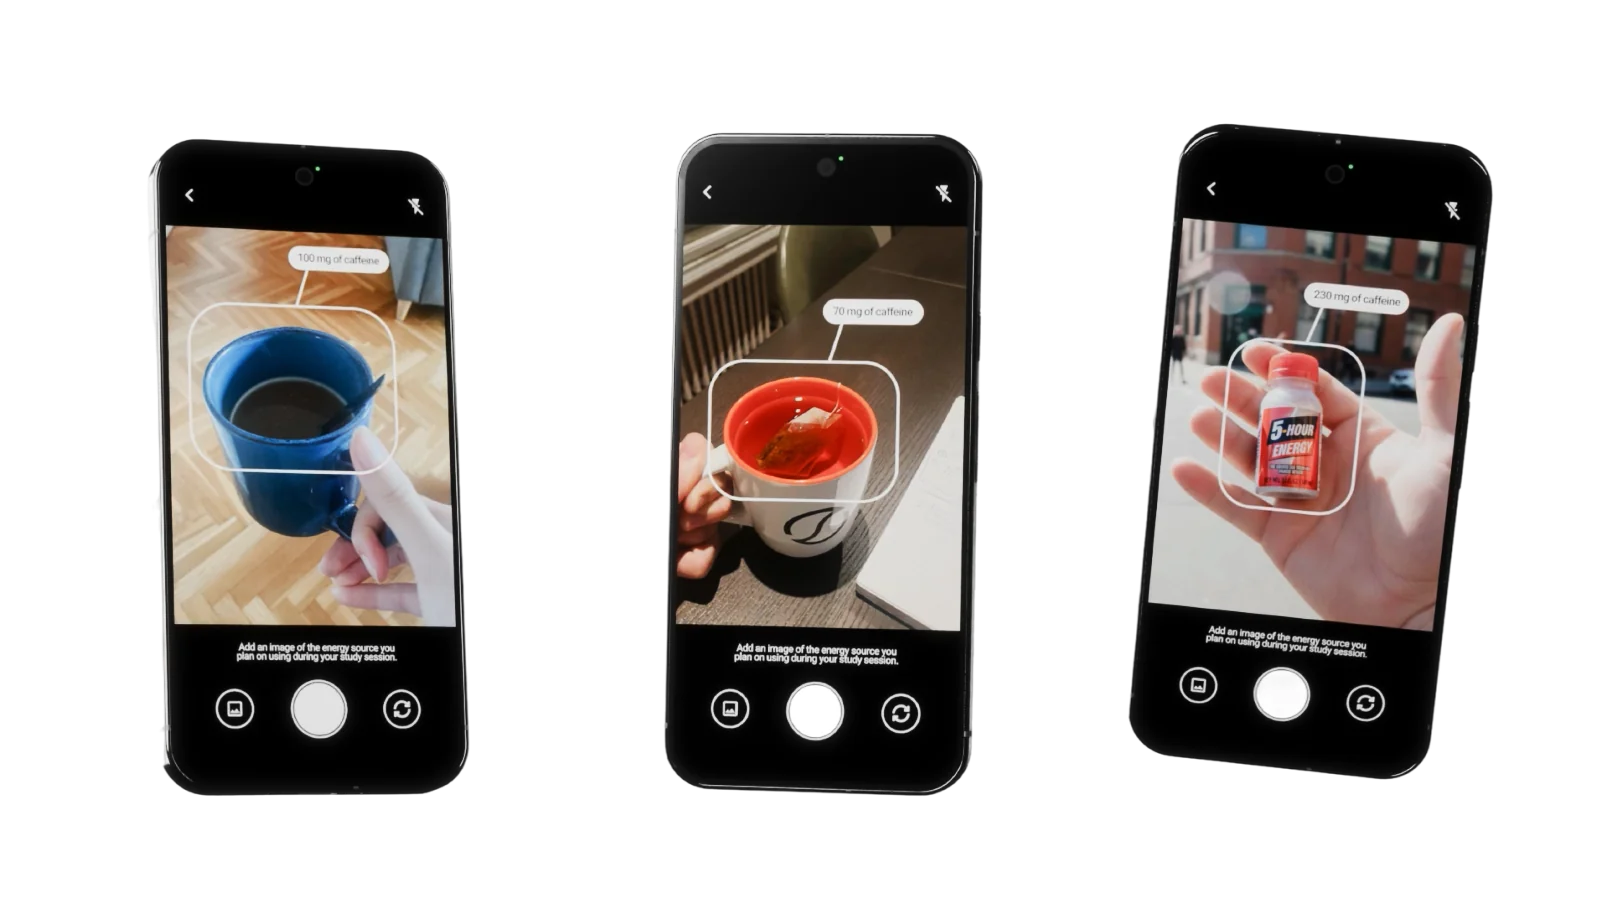
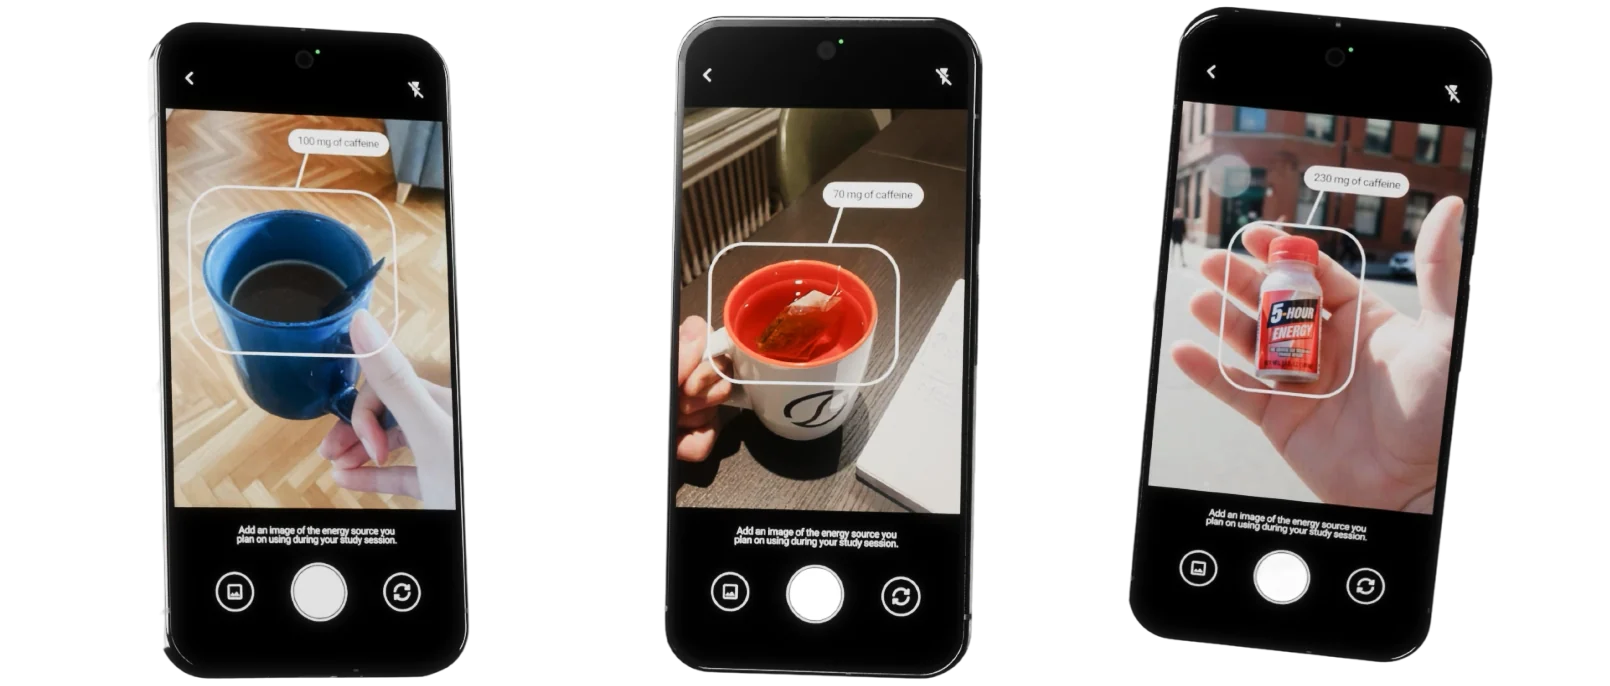
Even out Surf the Spike's vertical rhythm
Measured off the built page, the gaps between one block's picture and the
next block's caption were 124, 152 and 71 units, and the closing caption sat
straight on top of the nav with nothing between them. Two numbers do all of it
now — --sts-gap between blocks, --sts-lead from a caption to the picture under
it — and the nav gets the same air under the last caption that the first block
gets under the title. The one deliberate exception stays: the caption below
the placements still hugs them, because its hooks reach back up into the
photographs.

The space after the video case was mostly the scan artwork's own doing. The
three phones are drawn inside a 1610x906 field, which put 123 units of empty
black above them and 109 below; over a black page that is not margin, it is a
hole, and it doubled that gap and left the caption stranded in the middle of
it. The file is trimmed to the phones and the caption moves onto the line
above them like every other caption on the page — right-aligned, since its
arrow has to leave the words travelling left to land on the third phone.

Also: on a phone the caption span could not shrink, so the longest of them ran
off the right edge instead of breaking into two lines.

Claude-Session: https://claude.ai/code/session_01F42AuCjnt6BFxBRX1KPJGT

diff --git a/style.css b/style.css
@@ -1811,10 +1811,20 @@ body.narrow #page.page-and .back-in { gap: calc(16px * var(--inv)); }
    Each caption's arrow is placed by its own numbers rather than a shared rule.
    They are not decoration in a row of text: each one leaves the words at a
    particular point and lands on a particular part of the picture under it, and
-   in the layout that means each sits at its own height against its own line. */
+   in the layout that means each sits at its own height against its own line.
+
+   The vertical rhythm is regularised, which the layout is not: measured off it
+   the gaps between one block's picture and the next block's caption came out
+   124, 152 and 71, and the page read as unevenly distributed rather than as
+   deliberately varied. Two numbers now do all of it — `--sts-gap` between
+   blocks and `--sts-lead` from a caption to the picture it introduces — with
+   one exception, the caption under the placements, which hugs them because its
+   hooks reach back UP into the photographs. */
 .proj-sts {
   --sts-ink: #f2f2ea;
   --sts-copy: 1.411vw;
+  --sts-gap: 5.2vw;          /* between blocks: last picture to next caption */
+  --sts-lead: 1.406vw;       /* a caption to the picture directly under it */
   font-family: 'CossetteTexte', "Helvetica Neue", Helvetica, Arial, sans-serif;
   max-width: none;
   padding: 0 8.073vw 6.3vw;
@@ -1871,40 +1881,41 @@ body.narrow #page.page-and .back-in { gap: calc(16px * var(--inv)); }
 
 .proj-sts .proj-block { margin: 0; }
 .proj-sts .sts-b-case { margin-top: 4.58vw; }
+.proj-sts .sts-b-scan,
+.proj-sts .sts-b-ui,
+.proj-sts .sts-b-out { margin-top: var(--sts-gap); }
+/* the closing nav is the page's last line and needs the same air the first
+   block gets under the title — without this it sits straight under the
+   placements' caption, reading as part of it */
+.proj-sts > .proj-nav:last-child { margin-top: 4.58vw; }
 
-.sts-cap-case { margin-bottom: 1.094vw; }               /* caption 99 -> video 152 */
+.sts-cap-case { margin-bottom: var(--sts-lead); }
 .sts-cap-case svg { width: 3.854vw; height: 1.615vw; margin-top: 0.208vw; }
 
 .sts-yt { position: relative; aspect-ratio: 16 / 9; }
 .sts-yt iframe { position: absolute; inset: 0; width: 100%; height: 100%; border: 0; display: block; }
 
-/* video bottom 1056 -> the scan artwork's own box top 1151 */
-.proj-sts .sts-b-scan { margin-top: 4.948vw; }
-.sts-scan { position: relative; }
+/* The artwork is drawn inside a 1610x906 field with the three phones sitting
+   in the middle of it, which put 123 units of empty black above them and 109
+   below. Over a black page that is not margin, it is a hole: it doubled the
+   gap after the video case and left the caption stranded in the middle of it.
+   So the file is trimmed to the phones (plus 6 units of air) and the caption
+   comes out of the artwork and back onto the line above it, where every other
+   caption on this page sits. Right-aligned, because the arrow has to leave the
+   words travelling left to land on the third phone. */
 .sts-scan img { display: block; width: 100%; height: auto; }
-/* inside the artwork's own black margin, 29 units down and 47 in from the
-   right, which is where the layout starts the line so its arrow lands on the
-   third phone */
-.sts-cap-scan {
-  position: absolute;
-  top: 1.51vw;
-  right: 2.448vw;
-}
-.sts-cap-scan svg { width: 8.75vw; height: 4.583vw; margin-top: 0.729vw; }
+.sts-cap-scan { justify-content: flex-end; margin-bottom: var(--sts-lead); }
+.sts-cap-scan svg { width: 8.75vw; height: 4.583vw; }
 
-/* the scan artwork's box bottom 2057 -> this caption's line at 2100 */
-.proj-sts .sts-b-ui { margin-top: 2.24vw; }
-.sts-cap-ui { margin-bottom: 1.667vw; }                 /* caption 2100 -> clip 2164 */
+.sts-cap-ui { margin-bottom: var(--sts-lead); }
 .sts-cap-ui svg { width: 6.667vw; height: 3.021vw; margin-top: 0.313vw; }
 
 /* the clip is shown whole, at the ratio the UI was recorded in */
 .sts-clip video { width: 100%; height: auto; display: block; }
 
-/* clip bottom 3070 -> the shops caption at 3141 */
-.proj-sts .sts-b-out { margin-top: 3.698vw; }
 /* both grid captions are centred on the page, with an arrow off each end */
 .sts-cap-shops, .sts-cap-vend { justify-content: center; }
-.sts-cap-shops { margin-bottom: 1.406vw; }              /* caption 3141 -> grid 3198 */
+.sts-cap-shops { margin-bottom: var(--sts-lead); }
 .sts-cap-shops svg:first-child { width: 5.833vw; height: 2.396vw; margin-top: 0.781vw; }
 .sts-cap-shops svg:last-child { width: 6.563vw; height: 2.5vw; margin-top: 0.833vw; }
 
@@ -1931,22 +1942,26 @@ body.narrow #page.page-and .back-in { gap: calc(16px * var(--inv)); }
   .proj-sts .proj-nav-hands .hand { width: 48px; }
   .proj-sts .proj-title-art { width: min(69.8vw, 602px); }   /* 72vw scaled the same way */
   .sts-idea { max-width: 100%; }
+  .proj-sts { --sts-gap: 34px; --sts-lead: 12px; }
   .proj-sts .sts-b-case { margin-top: 30px; }
-  .proj-sts .sts-b-scan, .proj-sts .sts-b-ui, .proj-sts .sts-b-out { margin-top: 30px; }
+  .proj-sts > .proj-nav:last-child { margin-top: 34px; }
 
   /* Every caption is a line of type and a doodle at the size the phone layout
      sets them, and the long ones wrap — so they stop being a nowrap row with
      the arrow pinned to one end. */
+  /* the line has to be able to break here — at 390 the longest of these
+     captions is three lines of type, and a span that cannot shrink runs
+     straight off the right edge instead */
   .sts-cap { flex-wrap: wrap; gap: 10px; align-items: center; }
+  .sts-cap span { flex: 0 1 auto; min-width: 0; }
   .sts-cap svg { margin-top: 0 !important; }
-  .sts-cap-case { margin-bottom: 12px; }
+  .sts-cap-case { margin-bottom: var(--sts-lead); }
   .sts-cap-case svg { width: 54px; height: 23px; }
-  .sts-cap-ui { margin-bottom: 12px; }
+  .sts-cap-ui { margin-bottom: var(--sts-lead); }
   .sts-cap-ui svg { width: 74px; height: 34px; }
-  /* the scan caption comes out of the artwork's margin and back into the flow:
-     there is no room beside three phones on a 390-wide screen for a line of
-     type to sit over them */
-  .sts-cap-scan { position: static; margin-bottom: 12px; }
+  /* left with the rest of them: right-aligning one line of a stacked column
+     reads as a mistake at this width */
+  .sts-cap-scan { justify-content: flex-start; }
   .sts-cap-scan svg { width: 84px; height: 44px; }
   /* The two grid captions point at pictures on either side of them, and on a
      phone there is no either side — the 2x2 is one column. So the line takes
@@ -1958,7 +1973,7 @@ body.narrow #page.page-and .back-in { gap: calc(16px * var(--inv)); }
   .sts-cap-shops span, .sts-cap-vend span { flex-basis: 100%; }
   .sts-cap-shops span { order: -1; }
   .sts-cap-vend span { order: 1; }
-  .sts-cap-shops { margin-bottom: 12px; }
+  .sts-cap-shops { margin-bottom: var(--sts-lead); }
   .sts-cap-shops svg:first-child { width: 64px; height: 26px; }
   .sts-cap-shops svg:last-child { width: 68px; height: 26px; }
   .sts-cap-vend { margin-top: 12px; }

diff --git a/app.js b/app.js
@@ -2029,18 +2029,16 @@ PROJECTS['surf-the-spike'] = function () {
         </div>
       </div>
 
-      <!-- The artwork carries its own black margin — the three phones are
-           drawn inside a 1610x906 field, not cropped to their own edges — and
-           the layout puts the caption inside that margin rather than above it.
-           So the caption is positioned over the top right of the image, which
-           is where the arrow needs to start from to fall on the third phone. -->
+      <!-- The one caption set to the right of the column: its arrow has to
+           leave the words travelling left to land on the third phone, so the
+           words have to be over on that side to leave it the run. -->
       <div class="proj-block sts-b-scan">
         <div class="sts-scan">
-          <img src="${p}scan.webp" alt="Three phones scanning a coffee, a tea and an energy shot, each labelled with the caffeine it holds" loading="lazy">
           <p class="sts-cap sts-cap-scan">
             ${scanArrow}
             <span>scan your caffeine intake</span>
           </p>
+          <img src="${p}scan.webp" alt="Three phones scanning a coffee, a tea and an energy shot, each labelled with the caffeine it holds" loading="lazy">
         </div>
       </div>
 

diff --git a/sw.js b/sw.js
@@ -13,7 +13,7 @@
    Bump VERSION after rebuilding frames to force every client onto the new art in
    one step. Without a bump the stale-while-revalidate path below still picks up
    changes, just one visit later. */
-const VERSION = 'pitalva-v69';
+const VERSION = 'pitalva-v70';
 const CACHE = VERSION;
 
 /* Enough to boot and play the first dap. The rest of the frames land in the
